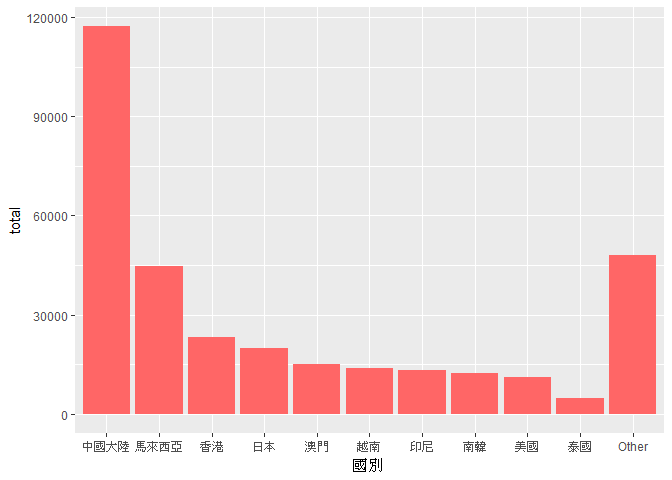
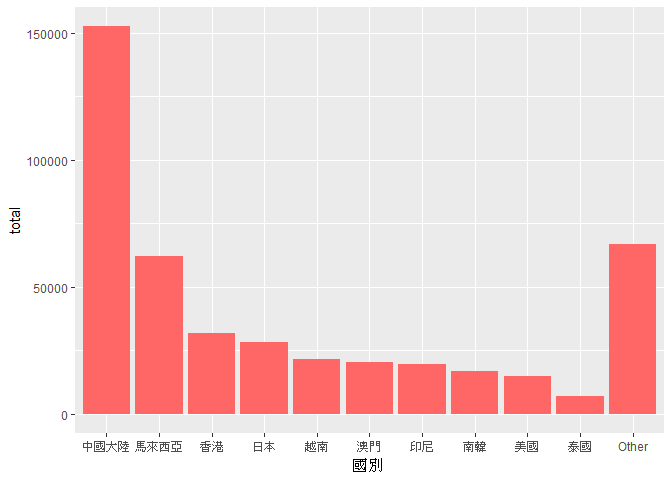
Done

diff --git a/InternationalStudents.md b/InternationalStudents.md
@@ -95,23 +95,23 @@ TotalCountry[,4:13]<-list(NULL)
 TotalCountry<-full_join(TotalCountry,country106,by="國別")
 TotalCountry[,5:14]<-list(NULL)
 TotalCountry[is.na(TotalCountry)]<-0
-TotalCountry$total<-rowSums(TotalCountry[,2:4])
+TotalCountry$total<-rowSums(TotalCountry[,2:5])
 TotalCountry[,2:5]<-list(NULL)
 ans1_1<-TotalCountry[order(TotalCountry$total,decreasing=T),]
 head(ans1_1,10)
 ```
 
     ##         國別  total
-    ## 1   中國大陸 117220
-    ## 2   馬來西亞  44750
-    ## 3       香港  23179
-    ## 4       日本  19813
-    ## 5       澳門  15161
-    ## 6       越南  13806
-    ## 8       印尼  13167
-    ## 7       南韓  12224
-    ## 121     美國  11032
-    ## 9       泰國   4897
+    ## 1   中國大陸 152524
+    ## 2   馬來西亞  62031
+    ## 3       香港  31940
+    ## 4       日本  28200
+    ## 6       越南  21670
+    ## 5       澳門  20302
+    ## 8       印尼  19620
+    ## 7       南韓  16948
+    ## 121     美國  14846
+    ## 9       泰國   7035
 
 ``` r
 knitr::kable(head(ans1_1,10))
@@ -119,16 +119,16 @@ knitr::kable(head(ans1_1,10))
 
 |     | 國別     |   total|
 |-----|:---------|-------:|
-| 1   | 中國大陸 |  117220|
-| 2   | 馬來西亞 |   44750|
-| 3   | 香港     |   23179|
-| 4   | 日本     |   19813|
-| 5   | 澳門     |   15161|
-| 6   | 越南     |   13806|
-| 8   | 印尼     |   13167|
-| 7   | 南韓     |   12224|
-| 121 | 美國     |   11032|
-| 9   | 泰國     |    4897|
+| 1   | 中國大陸 |  152524|
+| 2   | 馬來西亞 |   62031|
+| 3   | 香港     |   31940|
+| 4   | 日本     |   28200|
+| 6   | 越南     |   21670|
+| 5   | 澳門     |   20302|
+| 8   | 印尼     |   19620|
+| 7   | 南韓     |   16948|
+| 121 | 美國     |   14846|
+| 9   | 泰國     |    7035|
 
 ### 哪間大學的境外生最多呢？
 
@@ -499,16 +499,16 @@ ans8
 
 |     | 國別     |   total|
 |-----|:---------|-------:|
-| 1   | 中國大陸 |  117220|
-| 2   | 馬來西亞 |   44750|
-| 3   | 香港     |   23179|
-| 4   | 日本     |   19813|
-| 5   | 澳門     |   15161|
-| 6   | 越南     |   13806|
-| 8   | 印尼     |   13167|
-| 7   | 南韓     |   12224|
-| 121 | 美國     |   11032|
-| 9   | 泰國     |    4897|
+| 1   | 中國大陸 |  152524|
+| 2   | 馬來西亞 |   62031|
+| 3   | 香港     |   31940|
+| 4   | 日本     |   28200|
+| 6   | 越南     |   21670|
+| 5   | 澳門     |   20302|
+| 8   | 印尼     |   19620|
+| 7   | 南韓     |   16948|
+| 121 | 美國     |   14846|
+| 9   | 泰國     |    7035|
 
 | 對方學校(機構)國別(地區) |   sum|
 |:-------------------------|-----:|
